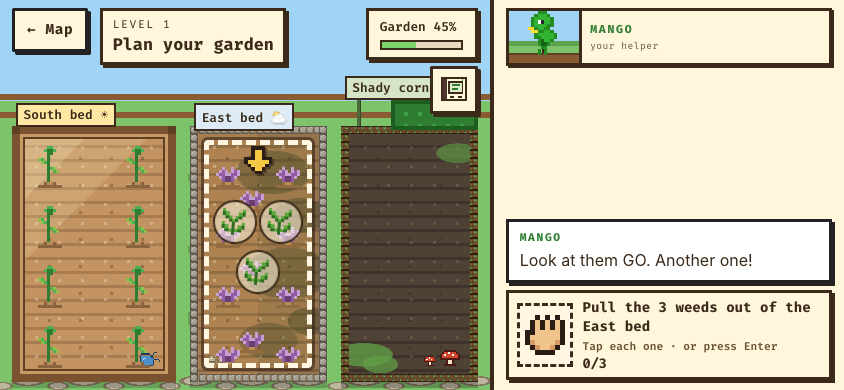
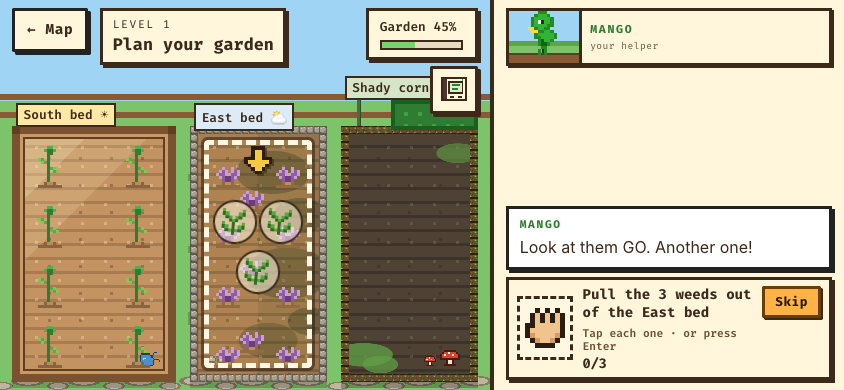
feat(v2): every chore has a quiet Skip; chores never move the garden bar
A chore's card shows a small Skip in its top-right corner (skippable: true
by default, false opts out). Skipping lands the chore's end state at once,
with no animation, and the level carries on. Done or skipped, a chore never
changes stars, trust or the garden bar. Steps are never skippable.
Harness: skipChore(page) helper and a skip-chore run.

Changed region(s): [[0.5853, 0.5231, 1.0, 0.9538]]

diff --git a/v2/actions/runner.js b/v2/actions/runner.js
@@ -28,7 +28,8 @@ const DRAG_START = 5; // px before a press becomes a drag
 
 // plan: normalized actions. scene: the element the beds live in.
 // names: { bed(id), plant(id), list(targets) }. itemFor(action) → the tool's face.
-export function runPlan({ plan, scene, names, itemFor, onDone, onCancel = null, title = null }) {
+// skippable: a chore's quiet "Skip" link, which finishes it at once with no animation.
+export function runPlan({ plan, scene, names, itemFor, onDone, onCancel = null, title = null, skippable = false }) {
   const reduced = reducedMotion();
   const layer = h("div", { class: "act-layer", "aria-hidden": "true" });
   scene.append(layer);
@@ -101,6 +102,7 @@ export function runPlan({ plan, scene, names, itemFor, onDone, onCancel = null, 
         plan.length > 1 && h("p", { class: "act__steps", "aria-hidden": "true" }, plan.map((_, i) => h("span", { class: i < ai ? "is-done" : i === ai ? "is-now" : "" })))),
       onCancel && ai === 0 && count === 0 && h("button", { class: "btn btn--off act__back", type: "button", "data-act-back": "", onclick: cancel },
         "Back", h("kbd", { class: "kbd", "aria-hidden": "true" }, "Esc")),
+      skippable && h("button", { class: "btn btn--off act__skip", type: "button", "data-act-skip": "", onclick: skip }, "Skip"),
       live].filter(Boolean));
   }
 
@@ -359,6 +361,13 @@ export function runPlan({ plan, scene, names, itemFor, onDone, onCancel = null, 
     over = true;
     cleanup();
     onDone();
+  }
+  // Skip a chore: the end state lands straight away, then the level carries on.
+  function skip() {
+    if (over) return;
+    busy = false;
+    layer.replaceChildren();
+    completeAll();
   }
   function cancel() {
     if (over) return;

diff --git a/v2/ui/level-view.js b/v2/ui/level-view.js
@@ -259,10 +259,10 @@ export function mountLevel(root, level, { onDone, onExit, name = "friend", earli
     return face;
   }
   // Start the hands-on part of a choice; the choice itself is dispatched when it ends.
-  function act(action, plan, { title = null } = {}) {
+  function act(action, plan, { title = null, skippable = false } = {}) {
     const cancellable = action.type !== "chore";
     acting = runPlan({
-      plan, scene, names, itemFor, title: title && t(title),
+      plan, scene, names, itemFor, title: title && t(title), skippable,
       onDone: () => { acting = null; dispatch({ ...action, acted: true }); },
       onCancel: cancellable ? () => { acting = null; focusKey = null; render(); } : null,
     });
@@ -315,7 +315,7 @@ export function mountLevel(root, level, { onDone, onExit, name = "friend", earli
       const action = { type: "chore", id: chore.id };
       const out = reduce(level, state, action);
       const plan = planFor(level, state, action, out);
-      if (plan.length > 0) return act(action, plan, { title: chore.title });
+      if (plan.length > 0) return act(action, plan, { title: chore.title, skippable: chore.skippable !== false });
       return dispatch({ ...action, acted: true });
     }
     if (acting) {

diff --git a/v2/engine/level-runner.js b/v2/engine/level-runner.js
@@ -29,7 +29,9 @@
 // and no trust either way. A chore with `before: stepId` is pending while that
 // step is in its ask phase; { type: "chore", id } marks it done (its optional
 // effect lands, its doneLine is said). The view shows a pending chore in place
-// of the question chips; the reducer itself never blocks on one.
+// of the question chips; the reducer itself never blocks on one. Chores are
+// skippable unless `skippable: false`; skipped or done, they never change
+// stars, trust or the garden bar.
 
 import { resolveEffect } from "../mechanics/placement.js";
 import { nextPressureEffect } from "../mechanics/pressure.js";
@@ -170,7 +172,8 @@ export function reduce(level, state, action) {
   if (action.type === "chore") {
     const chore = pendingChore(level, state);
     if (!chore || chore.id !== action.id) return IGNORED(state);
-    const effect = chore.effect ? fx(chore.effect) : null;
+    // A chore never moves the garden bar (done or skipped): only its plants change.
+    const effect = chore.effect ? { ...fx(chore.effect), garden: 0 } : null;
     const base = { ...state, chores: [...(state.chores || []), chore.id] };
     const effects = [];
     if (effect) effects.push({ type: "grow", effect });

diff --git a/v2/css/actions.css b/v2/css/actions.css
@@ -53,6 +53,8 @@
 .act__steps .is-done { background: #5aa83a; }
 .act__steps .is-now { background: #f6c945; }
 .act__back { align-self: start; }
+/* A chore's Skip: a small link-sized button tucked in the card's top-right corner. */
+.act__skip { align-self: start; justify-self: end; min-height: 32px; padding: 3px 10px; font-size: 0.8rem; box-shadow: 2px 2px 0 var(--ink, #2b1d14); }
 
 /* ---------- the director (inside .scene, over the beds) ---------- */
 .act-layer { position: absolute; inset: 0; z-index: 3; pointer-events: none; }
@@ -131,6 +133,7 @@
   .act { grid-template-columns: auto minmax(0, 1fr); }
   .act__back { grid-column: 2; justify-self: start; min-height: 36px; padding: 4px 10px; }
   .act__back .kbd { display: none; }
+  .act__skip { grid-column: 2; grid-row: 1; justify-self: end; }
   .bubble--acting { display: none; }
 }
 

diff --git a/v2/tests/actions.test.js b/v2/tests/actions.test.js
@@ -160,7 +160,7 @@ test("a chore's effect lands like any garden change", () => {
   const s = createRun(L);
   const out = reduce(L, s, { type: "chore", id: "c" });
   assert.equal(out.effects[0].type, "grow");
-  assert.equal(out.state.garden, 35);
+  assert.equal(out.state.garden, 30, "chores never move the garden bar");
   assert.ok(out.state.beds.tub.some((p) => p.plant === "mint"));
 });
 

diff --git a/docs/superpowers/specs/2026-11-14-driftwood-actions-format.md b/docs/superpowers/specs/2026-11-14-driftwood-actions-format.md
@@ -88,7 +88,8 @@ chores: [
     title: "Chore",           // small kicker over the instruction
     actions: [ { kind: "pick", spot: "weed", target: { bed: "east", plant: "lettuce" }, count: 3,
                  say: "Pull the 3 weeds out of the East bed" } ],
-    effect: { ... },          // optional, lands like any garden effect
+    skippable: true,          // the default; false hides the Skip button
+    effect: { ... },          // optional: plants only, the garden bar never moves
     doneLine: "…",           // optional, the helper says it after. It replaces the
                               // helper's last line (e.g. a "my way" outcome), so
                               // most chores leave it out.
@@ -99,7 +100,8 @@ chores: [
 How chores behave:
 
 - A chore starts by itself once the helper's previous line has been shown, and the question chips wait until it's done.
-- A chore can't be backed out of.
+- A chore can't be backed out of, but it can be skipped. Every chore is `skippable: true` by default (set `skippable: false` to opt out); the card then shows a small "Skip" button in its top-right corner. Skipping finishes the chore at once: its end state lands with no animation and the level carries on to the next beat. Conversation steps (trust and drift) are never skippable.
+- Done or skipped, a chore never changes stars, trust or the garden bar. A chore `effect` may change plants, but its `garden` value is ignored.
 - A chore after the last step never runs (the level ends at the reveal), so there is no `at: "end"`.
 - In the engine, `pendingChore(level, state)` (in engine/level-runner.js) returns the chore that is due, and `{ type: "chore", id }` marks it done in `state.chores`. The reducer never blocks on a chore; the view does the gating.
 - Level 1 has one sample chore (`weeds`, before `water`).
@@ -142,5 +144,5 @@ How chores behave:
 
 - **Unit tests:** v2/tests/actions.test.js. It also checks every level's action lists and chores: known kinds, known beds, and `before` set to a real step.
 - **Existing browser flows:** scripts/test-mute.js sets `window.__dwAutoAct = true`, so every action finishes the moment it opens, through the runner's own commit path. The old flows keep passing while the actions still run.
-- **Hand-run flows:** set `window.__dwAutoAct = false` and use the helpers in scripts/v2-actions-helper.cjs: `completeAction(page)` for the keyboard, and `dragTo(page, from, to, { touch })` for a mouse or CDP touch drag.
+- **Hand-run flows:** set `window.__dwAutoAct = false` and use the helpers in scripts/v2-actions-helper.cjs: `completeAction(page)` for the keyboard, `skipChore(page)` to press a chore's Skip, and `dragTo(page, from, to, { touch })` for a mouse or CDP touch drag.
 - **The action flows themselves:** scripts/test-v2-actions.cjs.
